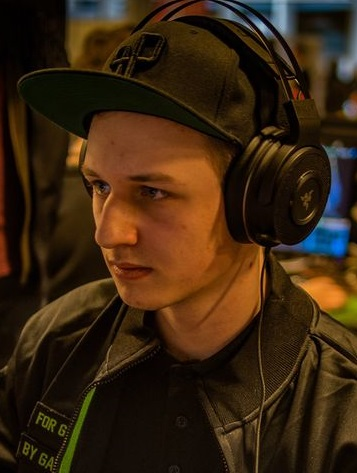
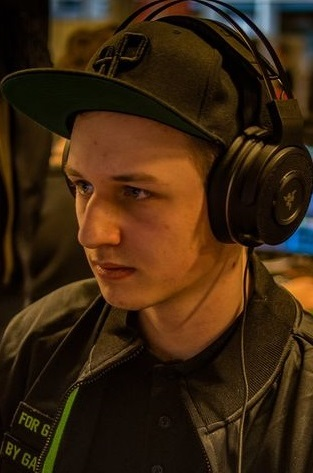
feat: updated player profiles
added some images and links to player profiles and resized some images to make player cards more uniform.

to do: update player profile pictures and links for remaining players cards. Add feature onclick of player cards, the card flips and reveals bio/summary of the player to provide further information about each player and more interaction to website

diff --git a/src/app/page.tsx b/src/app/page.tsx
@@ -13,11 +13,12 @@ import twitter from './images/twitter.svg'
 import twitter_gold from './images/twittergold.svg'
 import copyright from './images/baseline-copyright.svg'
 import holden from './images/holdenpfplq.jpg'
-import benja from './images/benja.jpg'
+import benja from './images/benja.jpeg'
 import acheron from './images/acheron.jpg'
 import billy from './images/billy.jpg'
 import spazy from './images/spazymazy.jpg'
-import maru from './images/Maru.jpg'
+import anticore from './images/anticore_pfp.png'
+import josh from './images/josh.jpg'
 import usa from './images/flag-united-states.svg'
 import denmark from './images/flag-denmark.svg'
 import italy from './images/flag-italy.svg'
@@ -56,7 +57,7 @@ export default function Home() {
       </Navbar>
 
       <div className="grid grid-cols-1 justify-items-center bg-gradient-to-b from-rgray via-wheat to-rgray ">
-        <div className="grid grid-cols-1 justify-items-center m-8">
+        <div className="grid grid-cols-1 justify-items-center mt-[48px] m-8">
           <Image width={800} height={350} src={bingbong} alt="test" className="rounded-tl-lg rounded-tr-lg" />
           <Card className="rounded-bl-lg rounded-br-lg columns-3 min-h-[100px] w-[310px] md:min-h-[150px] md:min-w-[800px] bg-black">
             <CardBody>
@@ -90,7 +91,7 @@ export default function Home() {
                     <div>
                       <p>Offence</p>
                       <p>Defence</p>
-                      <p>Versatiltiy</p>
+                      <p>Versatility</p>
                       <p>Multitasking</p>
                       <p>Mechanics</p>
                       <p>Speed</p>
@@ -142,7 +143,7 @@ export default function Home() {
                     <div>
                       <p>Offence</p>
                       <p>Defence</p>
-                      <p>Versatiltiy</p>
+                      <p>Versatility</p>
                       <p>Multitasking</p>
                       <p>Mechanics</p>
                       <p>Speed</p>
@@ -194,7 +195,7 @@ export default function Home() {
                     <div>
                       <p>Offence</p>
                       <p>Defence</p>
-                      <p>Versatiltiy</p>
+                      <p>Versatility</p>
                       <p>Multitasking</p>
                       <p>Mechanics</p>
                       <p>Speed</p>
@@ -246,7 +247,7 @@ export default function Home() {
                     <div>
                       <p>Offence</p>
                       <p>Defence</p>
-                      <p>Versatiltiy</p>
+                      <p>Versatility</p>
                       <p>Multitasking</p>
                       <p>Mechanics</p>
                       <p>Speed</p>
@@ -298,7 +299,7 @@ export default function Home() {
                     <div>
                       <p>Offence</p>
                       <p>Defence</p>
-                      <p>Versatiltiy</p>
+                      <p>Versatility</p>
                       <p>Multitasking</p>
                       <p>Mechanics</p>
                       <p>Speed</p>
@@ -338,7 +339,7 @@ export default function Home() {
               </div>
 
               <div className="grid grid-cols-2 justify-items-center">
-                <Image className="rounded-lg ml-4" width={200} height={300} src={placeholder} alt="spazy-img"></Image>
+                <Image className="rounded-lg ml-4" width={200} height={300} src={anticore} alt="spazy-img"></Image>
 
                 <div className="ml-8">
                   <div className="grid grid-cols-1 justify-items-center mr-[26px]">
@@ -350,7 +351,7 @@ export default function Home() {
                     <div>
                       <p>Offence</p>
                       <p>Defence</p>
-                      <p>Versatiltiy</p>
+                      <p>Versatility</p>
                       <p>Multitasking</p>
                       <p>Mechanics</p>
                       <p>Speed</p>
@@ -369,7 +370,7 @@ export default function Home() {
                       <a href="https://twitter.com/BingBongExports" target="_blank" rel="noopener noreferrer">
                         <Image className="ml-[35px] mt-[7px] self-end" src={twitter} alt="twitter-img"></Image>
                       </a>
-                      <a href="https://www.twitch.tv/bingbongexports" target="_blank" rel="noopener noreferrer">
+                      <a href="https://www.twitch.tv/coranticore" target="_blank" rel="noopener noreferrer">
                         <Image className="ml-[30px] mt-[7.5px] self-end" src={twitch} alt="twitch-img"></Image>
                       </a>
                     </div>
@@ -402,7 +403,7 @@ export default function Home() {
                     <div>
                       <p>Offence</p>
                       <p>Defence</p>
-                      <p>Versatiltiy</p>
+                      <p>Versatility</p>
                       <p>Multitasking</p>
                       <p>Mechanics</p>
                       <p>Speed</p>
@@ -454,7 +455,7 @@ export default function Home() {
                     <div>
                       <p>Offence</p>
                       <p>Defence</p>
-                      <p>Versatiltiy</p>
+                      <p>Versatility</p>
                       <p>Multitasking</p>
                       <p>Mechanics</p>
                       <p>Speed</p>
@@ -506,7 +507,7 @@ export default function Home() {
                     <div>
                       <p>Offence</p>
                       <p>Defence</p>
-                      <p>Versatiltiy</p>
+                      <p>Versatility</p>
                       <p>Multitasking</p>
                       <p>Mechanics</p>
                       <p>Speed</p>
@@ -558,7 +559,7 @@ export default function Home() {
                     <div>
                       <p>Offence</p>
                       <p>Defence</p>
-                      <p>Versatiltiy</p>
+                      <p>Versatility</p>
                       <p>Multitasking</p>
                       <p>Mechanics</p>
                       <p>Speed</p>
@@ -598,7 +599,7 @@ export default function Home() {
               </div>
 
               <div className="grid grid-cols-2 justify-items-center">
-                <Image className="rounded-lg ml-4" width={200} height={300} src={placeholder} alt="benja-img"></Image>
+                <Image className="rounded-lg ml-4" width={200} height={300} src={josh} alt="benja-img"></Image>
 
                 <div className="ml-8">
                   <div className="grid grid-cols-1 justify-items-center mr-[26px]">
@@ -610,7 +611,7 @@ export default function Home() {
                     <div>
                       <p>Offence</p>
                       <p>Defence</p>
-                      <p>Versatiltiy</p>
+                      <p>Versatility</p>
                       <p>Multitasking</p>
                       <p>Mechanics</p>
                       <p>Speed</p>
@@ -626,10 +627,10 @@ export default function Home() {
                       <p className="text-right text-md">47</p>
                     </div>
                     <div className="grid grid-cols-2 justify-items-center">
-                      <a href="https://twitter.com/BingBongExports" target="_blank" rel="noopener noreferrer">
+                      <a href="https://twitter.com/Omni_Skeptic" target="_blank" rel="noopener noreferrer">
                         <Image className="ml-[35px] mt-[7px] self-end" src={twitter} alt="twitter-img"></Image>
                       </a>
-                      <a href="https://www.twitch.tv/bingbongexports" target="_blank" rel="noopener noreferrer">
+                      <a href="https://www.twitch.tv/omniskepticsc" target="_blank" rel="noopener noreferrer">
                         <Image className="ml-[30px] mt-[7.5px] self-end" src={twitch} alt="twitch-img"></Image>
                       </a>
                     </div>
@@ -663,7 +664,7 @@ export default function Home() {
                     <div>
                       <p>Offence</p>
                       <p>Defence</p>
-                      <p>Versatiltiy</p>
+                      <p>Versatility</p>
                       <p>Multitasking</p>
                       <p>Mechanics</p>
                       <p>Speed</p>
@@ -695,7 +696,7 @@ export default function Home() {
 
         </div>
 
-        <div className="rounded-lg bg-black mt-[50px] min-h-[300px] min-w-[300px] lg:min-h-[500px] lg:min-w-[500px] ">
+        <div className="rounded-lg bg-black mt-[70px] min-h-[300px] min-w-[300px] lg:min-h-[500px] lg:min-w-[500px] ">
           <Image src={starcraft} alt="test"></Image>
         </div>
         <div className="mt-[110px] bg-black w-full min-h-[100px] border-solid border-saffron">
